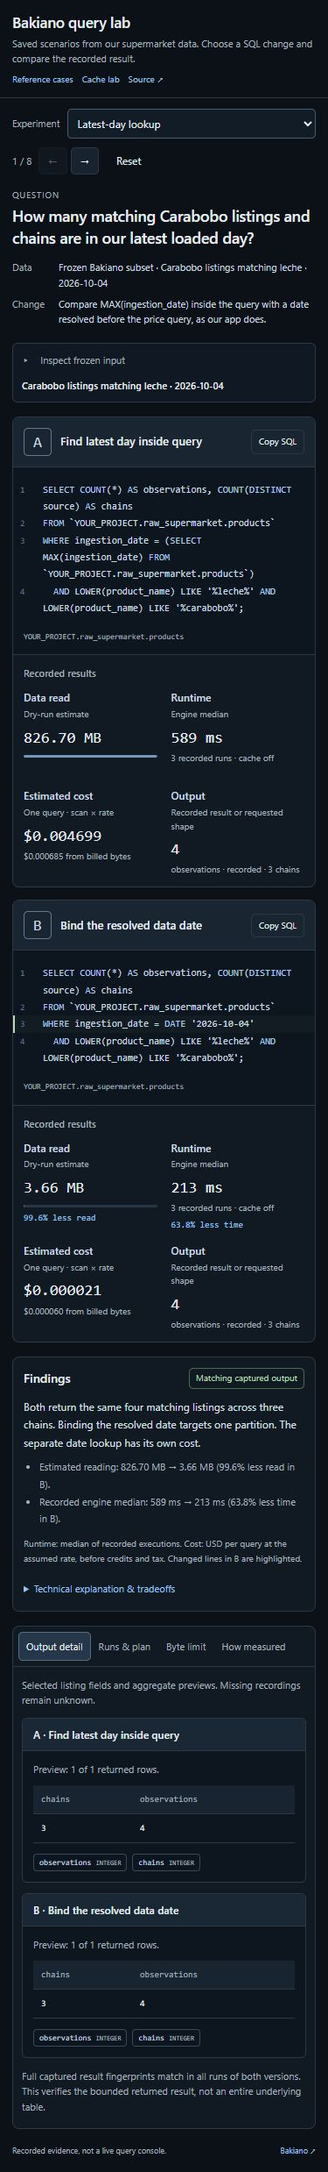
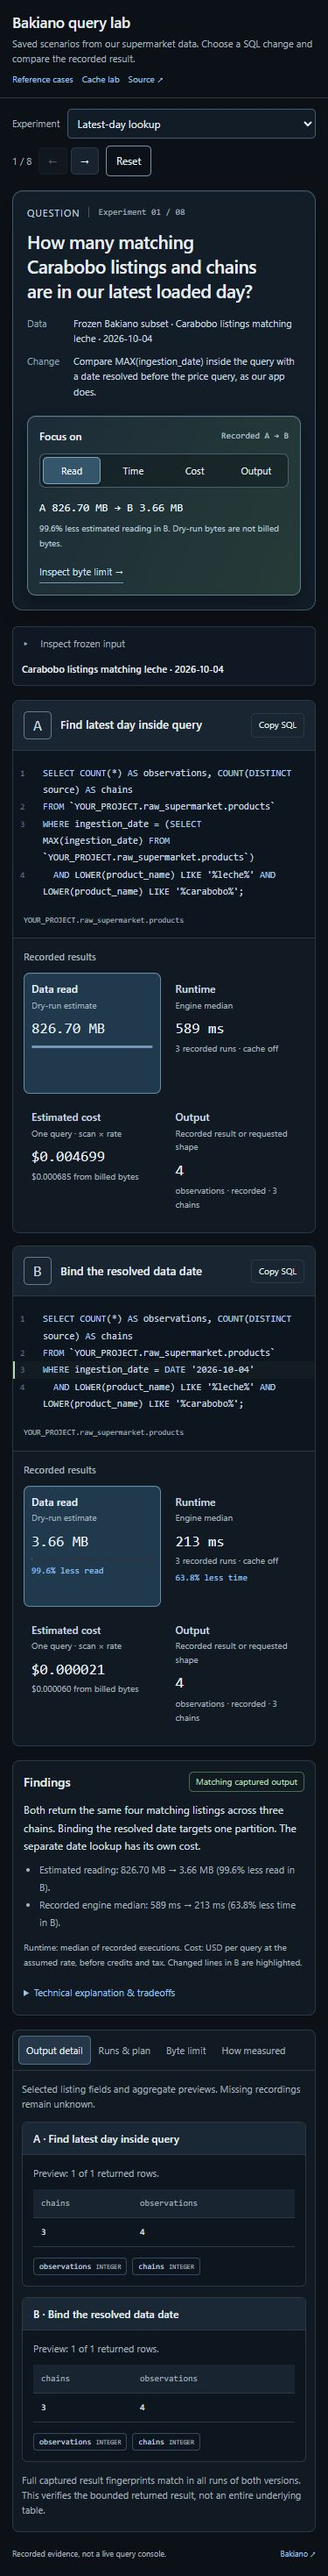
feat(lab): add floating comparison focus and experiment motion (#5)
* feat(lab): add floating comparison focus and experiment motion

* docs(lab): show interactive focus controls and updated previews

diff --git a/demo/lab.js b/demo/lab.js
@@ -2,14 +2,27 @@ const reference=location.pathname==='/reference';
 const {experiments,groups,measurements,checkLimit}=await import(reference?'/examples/query-lab.js':'/examples/market-lab.js');
 import {comparisonFor} from '/examples/query-comparison.js';
 import {pricing} from '/examples/query-metrics.js';
-import {renderComparison,previewHTML,escape,number,bytes,duration} from '/demo/metrics.js';
+import {renderComparison,previewHTML,escape,number,bytes,duration,money} from '/demo/metrics.js';
 const $=id=>document.getElementById(id);
 const views=['output','runs','limits','method'];
 const labels={limit:'Return fewer rows',columns:'Read fewer columns',dates:'Filter an unpartitioned date',time:'Filter time in a view',summary:'Count versus a summary',partitions:'Read fewer partitions',predicate:'Change the date predicate',union:'Keep or remove duplicates',joins:'Group before joining',correlated:'Sum nested arrays',cross:'All pairs versus matching pairs',cte:'Reuse a WITH expression'};
 const params=new URLSearchParams(location.search);
 let experiment=experiments.some(e=>e.id===params.get('case'))?params.get('case'):reference?'summary':experiments[0].id;
-let view=views.includes(params.get('view'))?params.get('view'):'output',runVariant=0,guardSequence=0;
+let view=views.includes(params.get('view'))?params.get('view'):'output',runVariant=0,guardSequence=0,focusMetric='read';
+const focusEvidence={read:{view:'limits',label:'Inspect byte limit'},time:{view:'runs',label:'Inspect execution samples'},cost:{view:'method',label:'Inspect cost assumptions'},output:{view:'output',label:'Inspect output detail'}};
+const reducedMotion=()=>matchMedia('(prefers-reduced-motion: reduce)').matches;
 function model(){const rate=$('price-rate').valueAsNumber;return comparisonFor(experiment,Number.isFinite(rate)&&rate>=0&&rate<=1000?rate:pricing.usdPerTiB,measurements,experiments);}
+function renderFocus(m,validRate=true){
+  const [a,b]=m.versions,differentFields=JSON.stringify(a.query.schema)!==JSON.stringify(b.query.schema);
+  const values={read:'A '+bytes(a.query.bytes)+' → B '+bytes(b.query.bytes),time:m.timeChange===null?'No paired runtime recording':'A '+duration(a.runtime.jobMs)+' → B '+duration(b.runtime.jobMs),cost:validRate?'A '+money(a.estimatedCost)+' → B '+money(b.estimatedCost):'Enter a valid rate',output:m.result==='equal'?'Captured outputs match':m.result==='different'?(differentFields?'Output fields differ':'Captured outputs differ'):'Output comparison unavailable'};
+  const readDelta=m.scanChange===null?'Scan change cannot be compared.':Math.abs(m.scanChange)<.05?'Same dry-run estimate.':Math.abs(m.scanChange).toFixed(1)+'% '+(m.scanChange<0?'less':'more')+' estimated reading in B.';
+  const timeDelta=m.timeChange===null?'At least one query has no execution samples. Runtime remains unknown.':(Math.abs(m.timeChange)<.05?'Same recorded engine median.':Math.abs(m.timeChange).toFixed(1)+'% '+(m.timeChange<0?'less':'more')+' recorded time in B.')+' Three samples; not a speed guarantee.';
+  const notes={read:readDelta+' Dry-run bytes are not billed bytes.',time:timeDelta,cost:validRate?'Scan × assumed rate. Billed-byte costs are separate.':'Set the rate in How measured.',output:m.result==='equal'?'Full bounded result fingerprints match. Inspect the fields and previews.':m.result==='different'?'Different results need a scope check before comparing efficiency.':'Schemas alone cannot verify result equality.'};
+  $('sql-pair').dataset.focus=focusMetric;
+  for(const button of $('focus-controls').querySelectorAll('[data-focus]'))button.setAttribute('aria-pressed',String(button.dataset.focus===focusMetric));
+  $('focus-value').textContent=values[focusMetric];$('focus-note').textContent=notes[focusMetric];
+  $('focus-inspect').textContent=focusEvidence[focusMetric].label+' →';
+}
 function showView(next,focus=false){
   view=next;
   for(const item of views){const active=item===view;$('tab-'+item).setAttribute('aria-selected',String(active));$('tab-'+item).tabIndex=active?0:-1;$('pane-'+item).hidden=!active;}
@@ -31,11 +44,12 @@ function renderRuns(m){
 }
 function render(){
   ++guardSequence;const m=model(),e=m.experiment,index=experiments.indexOf(e);
-  $('case-nav').innerHTML=groups.map(g=>'<section><h3>'+escape(g.label)+'</h3>'+experiments.filter(item=>item.group===g.id).map(item=>'<button type="button" data-case="'+item.id+'" aria-current="'+(item.id===experiment)+'">'+escape(labels[item.id]??item.label)+'</button>').join('')+'</section>').join('');
+  $('case-nav').innerHTML=groups.map(g=>'<section><h3>'+escape(g.label)+'</h3>'+experiments.filter(item=>item.group===g.id).map(item=>'<button type="button" data-case="'+item.id+'" aria-label="'+escape(labels[item.id]??item.label)+'" aria-current="'+(item.id===experiment)+'"><span class="experiment-index" aria-hidden="true">'+String(experiments.indexOf(item)+1).padStart(2,'0')+'</span><span class="experiment-label">'+escape(labels[item.id]??item.label)+'</span><span class="experiment-arrow" aria-hidden="true">↗</span></button>').join('')+'</section>').join('');
   $('case-select').innerHTML=groups.map(g=>'<optgroup label="'+escape(g.label)+'">'+experiments.filter(item=>item.group===g.id).map(item=>'<option value="'+item.id+'" '+(item.id===experiment?'selected':'')+'>'+escape(labels[item.id]??item.label)+'</option>').join('')+'</optgroup>').join('');
   $('case-position').textContent=(index+1)+' / '+experiments.length;$('previous').disabled=index===0;$('next').disabled=index===experiments.length-1;
   $('record-date').textContent='Recorded · '+measurements.capturedAt.slice(0,10);
   $('question').textContent=e.question;$('data-context').textContent=m.context.data;$('change-context').textContent=m.context.change;
+  $('question-position').textContent='Experiment '+String(index+1).padStart(2,'0')+' / '+String(experiments.length).padStart(2,'0');
   $('lab-title').textContent=reference?'BigQuery reference cases':'Bakiano query lab';
   $('lab-description').textContent=reference?'Other public datasets, recorded for reference.':'Saved scenarios from our supermarket data. Choose a SQL change and compare the recorded result.';
   $('sidebar-note').textContent=reference?'Public datasets. Saved measurements. No cloud requests.':'Frozen Bakiano subset. Pre-run queries. No warehouse access needed.';
@@ -44,6 +58,7 @@ function render(){
   const valid=$('price-rate').value!==''&&$('price-rate').validity.valid;
   $('sql-pair').innerHTML=m.versions.map((v,i)=>'<article class="variant-card" aria-labelledby="variant-'+i+'-title"><header class="variant-heading"><div class="variant-label"><span aria-hidden="true">'+('AB'[i])+'</span><h3 id="variant-'+i+'-title" aria-label="'+('AB'[i])+' · '+escape(v.label)+'">'+escape(v.label)+'</h3></div><button type="button" data-copy="'+i+'" aria-label="Copy SQL '+('AB'[i])+'">Copy SQL</button></header><div class="variant-query"><pre class="sql-code" aria-label="SQL '+('AB'[i])+'">'+sqlHTML(v.query.sql,m.versions[0].query.sql,i===1)+'</pre><div class="source-name">'+sources(v.query.sql).map(escape).join('<br>')+'</div></div><div class="variant-results"><h4>Recorded results</h4><dl id="variant-'+i+'-metrics" class="variant-metrics"></dl></div></article>').join('');
   renderComparison(m,valid);
+  renderFocus(m,valid);
   $('lesson').textContent=e.lesson;$('tradeoff').textContent=e.tradeoff;$('docs-link').href=e.docs;
   $('output-pair').innerHTML=m.versions.map((v,i)=>'<article class="output-card"><div class="card-heading"><h4>'+('AB'[i])+' · '+escape(v.label)+'</h4></div><div class="output-content"><p>'+(v.runtime.representative?(v.output.length?'Preview: '+v.output.length+' of '+v.runtime.representative.rowCount+' returned rows.':'Runtime captured for '+v.runtime.representative.rowCount+' returned rows. This recording keeps selected previews only.'):'Schema from a dry run. No data rows captured.')+'</p>'+previewHTML(v.output)+'<div class="field-list">'+v.query.schema.map(f=>'<span class="field">'+escape(f.name)+'<small>'+escape(f.type)+'</small></span>').join('')+'</div></div></article>').join('');
   $('result-proof').textContent=m.result==='equal'?'Full captured result fingerprints match in all runs of both versions. This verifies the bounded returned result, not an entire underlying table.':m.result==='different'?(JSON.stringify(m.versions[0].query.schema)!==JSON.stringify(m.versions[1].query.schema)?'The output fields differ. Previews keep selected fields only; fingerprints cover the complete returned rows, including fields omitted from the preview.':'Result fingerprints differ. Compare the requested scope and aggregate values before treating either approach as an optimization.'):'No complete result comparison was recorded for both versions.';
@@ -55,17 +70,23 @@ function render(){
   $('source-facts').textContent=[...new Set(m.versions.flatMap(v=>sources(v.query.sql)))].map(name=>{const source=measurements.sources?.[name];return name+': '+(source?.partitioning?source.partitioning.type+' partition on '+source.partitioning.field:source?.type==='VIEW'?'view; physical partition layout not exposed':'table; no date partition configuration')+'.';}).join(' ');
   showView(view);
 }
-function selectCase(id){experiment=id;runVariant=0;render();}
-$('case-nav').addEventListener('click',event=>{const b=event.target.closest('[data-case]');if(b)selectCase(b.dataset.case);});
+function selectCase(id){
+  if(id===experiment)return;
+  experiment=id;runVariant=0;render();
+  if(!reducedMotion())for(const element of document.querySelectorAll('.question-content,.focus-console,.variant-card'))element.animate([{opacity:.55,transform:'translateY(6px)'},{opacity:1,transform:'translateY(0)'}],{duration:240,easing:'ease-out'});
+}
+$('case-nav').addEventListener('click',event=>{const b=event.target.closest('[data-case]');if(b){const restore=document.activeElement===b;selectCase(b.dataset.case);if(restore)$('case-nav').querySelector('[aria-current="true"]').focus({preventScroll:true});}});
 $('case-select').addEventListener('change',()=>selectCase($('case-select').value));
 $('previous').addEventListener('click',()=>selectCase(experiments[experiments.findIndex(e=>e.id===experiment)-1].id));
 $('next').addEventListener('click',()=>selectCase(experiments[experiments.findIndex(e=>e.id===experiment)+1].id));
-$('reset').addEventListener('click',()=>{$('price-rate').value=pricing.usdPerTiB;$('price-rate').setCustomValidity('');$('price-rate').setAttribute('aria-invalid','false');$('rate-error').hidden=true;runVariant=0;view='output';render();});
+$('reset').addEventListener('click',()=>{$('price-rate').value=pricing.usdPerTiB;$('price-rate').setCustomValidity('');$('price-rate').setAttribute('aria-invalid','false');$('rate-error').hidden=true;runVariant=0;view='output';focusMetric='read';render();});
+$('focus-controls').addEventListener('click',event=>{const button=event.target.closest('[data-focus]');if(button){focusMetric=button.dataset.focus;renderFocus(model(),$('price-rate').value!==''&&$('price-rate').validity.valid);}});
+$('focus-inspect').addEventListener('click',()=>{showView(focusEvidence[focusMetric].view);$('tab-'+view).focus({preventScroll:true});$('inspector-tabs').scrollIntoView({behavior:reducedMotion()?'instant':'smooth',block:'start'});});
 $('inspector-tabs').addEventListener('click',event=>{const b=event.target.closest('[data-view]');if(b)showView(b.dataset.view);});
 $('inspector-tabs').addEventListener('keydown',event=>{const b=event.target.closest('[data-view]');if(!b)return;let index=views.indexOf(b.dataset.view);if(event.key==='ArrowRight')index=(index+1)%views.length;else if(event.key==='ArrowLeft')index=(index+views.length-1)%views.length;else if(event.key==='Home')index=0;else if(event.key==='End')index=views.length-1;else return;event.preventDefault();showView(views[index],true);});
 $('run-choices').addEventListener('click',event=>{const b=event.target.closest('[data-run]');if(b){runVariant=Number(b.dataset.run);renderRuns(model());}});
 $('sql-pair').addEventListener('click',async event=>{const b=event.target.closest('[data-copy]');if(!b)return;try{await navigator.clipboard.writeText(model().versions[Number(b.dataset.copy)].query.sql);b.textContent='Copied';}catch{b.textContent='Select SQL to copy';}});
-$('price-rate').addEventListener('input',()=>{const rate=$('price-rate').valueAsNumber,valid=Number.isFinite(rate)&&rate>=0&&rate<=1000;$('price-rate').setCustomValidity(valid?'':'Enter a rate from 0 to 1000 USD/TiB.');$('price-rate').setAttribute('aria-invalid',String(!valid));$('rate-error').hidden=valid;renderComparison(model(),valid);});
+$('price-rate').addEventListener('input',()=>{const rate=$('price-rate').valueAsNumber,valid=Number.isFinite(rate)&&rate>=0&&rate<=1000;$('price-rate').setCustomValidity(valid?'':'Enter a rate from 0 to 1000 USD/TiB.');$('price-rate').setAttribute('aria-invalid',String(!valid));$('rate-error').hidden=valid;const m=model();renderComparison(m,valid);renderFocus(m,valid);});
 for(const id of ['limit-version','byte-cap'])$(id).addEventListener('change',()=>{++guardSequence;$('check-cap').disabled=false;$('cap-result').textContent='Check this version against the selected cap.';$('cap-result').className='detail-note';});
 $('check-cap').addEventListener('click',async()=>{const token=++guardSequence;$('check-cap').disabled=true;try{const result=await checkLimit(experiment,Number($('limit-version').value),$('byte-cap').value);if(token!==guardSequence)return;$('cap-result').className='detail-note '+(result.allowed?'allowed':'blocked');$('cap-result').textContent=result.allowed?'Allowed by the guard. Local adapter reached; no BigQuery execution and no observed billing.':'Blocked: '+bytes(result.estimatedBytes)+' estimated, '+bytes(result.limitBytes)+' cap. Execution was never reached.';}catch(error){if(token===guardSequence)$('cap-result').textContent=error.message;}finally{if(token===guardSequence)$('check-cap').disabled=false;}});
 render();

diff --git a/demo/lab.css b/demo/lab.css
@@ -49,3 +49,43 @@
 @media(max-width:650px){.app-header{padding:12px 14px;align-items:flex-start}.app-header nav{gap:10px;font-size:10px}.app-header p{max-width:230px;font-size:11px}h1{font-size:17px}main{padding:12px 14px 0}.case-toolbar{flex-wrap:wrap;gap:8px}.compact-picker{flex-basis:100%}.case-context{margin-top:14px}.case-context h2{font-size:18px}.case-context dl{font-size:11px}.case-context dl>div{grid-template-columns:45px minmax(0,1fr);gap:8px}.paired-panels{grid-template-columns:1fr}.sql-code{font-size:10px;max-height:280px}[role=tabpanel]{padding-left:10px;padding-right:10px}#inspector-tabs{padding:6px;gap:0}#inspector-tabs button{font-size:11px;padding:7px 8px}.method-grid{grid-template-columns:1fr}.method-grid>div:last-child{grid-column:auto}.limit-controls{align-items:stretch}.limit-controls label{flex-basis:100%}.limit-controls select{flex:1}.limit-controls #limit-version{flex-basis:100%}#run-choices{flex-wrap:wrap}footer{font-size:9px}}
 .dataset-panel{margin-top:16px;border:1px solid var(--line);border-radius:6px;padding:10px 14px;background:#101923}.dataset-panel summary{display:flex;gap:12px;align-items:center;flex-wrap:wrap;padding:0;font-size:11px;color:var(--muted)}.dataset-panel summary:before{content:"▸"}.dataset-panel[open] summary:before{content:"▾"}.dataset-panel strong{color:var(--text);font-size:11px;font-weight:500}.dataset-panel .detail-table{margin:10px 0 6px;font-family:system-ui,sans-serif;font-size:11px}.dataset-panel .detail-table td,.dataset-panel .detail-table th{white-space:normal;overflow-wrap:anywhere}.dataset-panel p{color:var(--muted);font-size:10px;line-height:1.7}.dataset-panel .detail-table td:last-child{white-space:nowrap;font-family:var(--mono)}@media(max-width:650px){.app-header{flex-wrap:wrap;gap:8px}.app-header p{max-width:none}.dataset-panel{padding:10px}.dataset-panel .detail-table{font-size:10px}}
 @media(max-width:650px){.dataset-panel .detail-table th:first-child,.dataset-panel .detail-table td:first-child{width:70px;white-space:nowrap;font-size:9px}}
+
+/* The question anchors the experiment; the floating controls inspect saved evidence. */
+.case-context{display:grid;grid-template-columns:minmax(0,1fr) 310px;align-items:center;gap:28px;margin:20px 0 18px;padding:22px 24px;border:1px solid #40576b;border-radius:12px;background:#121d28;box-shadow:0 12px 32px #0003,inset 0 1px 0 #a1c4e81a}
+.question-content{min-width:0}
+.question-caption{display:flex;gap:14px;align-items:center;margin-bottom:10px}
+.question-caption .section-label{margin:0;color:#c3d5e5;font-size:11px;letter-spacing:1px}
+#question-position{font:10px var(--mono);color:var(--muted);border-left:1px solid #40576b;padding-left:14px}
+.case-context h2{font-size:clamp(21px,1.75vw,28px);font-weight:600;line-height:1.35;letter-spacing:-.4px;margin-bottom:18px;max-width:940px;text-wrap:balance}
+.case-context dl{gap:8px}.case-context dt{color:#8fa8bd}
+.focus-console{padding:15px;border:1px solid #5b7e8c;border-radius:10px;background:linear-gradient(115deg,#203a4b,#1c2b38 45%,#273e37);background-size:220% 220%;animation:focus-drift 16s ease-in-out infinite;box-shadow:0 8px 22px #0005,inset 0 1px 0 #cadfed15;min-width:0}
+@keyframes focus-drift{0%,100%{background-position:0% 50%}50%{background-position:100% 50%}}
+.focus-heading{display:flex;justify-content:space-between;align-items:center;gap:8px;font-size:12px;font-weight:550;margin-bottom:11px}
+.focus-heading>span:last-child{font:9px var(--mono);color:#b5c8d5}
+#focus-controls{display:grid;grid-template-columns:repeat(4,minmax(0,1fr));gap:4px;padding:3px;border:1px solid #49616e;border-radius:7px;background:#0c151a7a}
+#focus-controls button{font-size:11px;padding:6px 2px;background:transparent;border-color:transparent;transition:background 160ms,border-color 160ms,color 160ms,transform 160ms}
+#focus-controls button[aria-pressed=true]{background:#34556a;border-color:#7ba5bd;color:#f1f6fb;box-shadow:0 2px 5px #0003}
+#focus-reading{margin:12px 0;min-height:67px}
+#focus-value{display:block;font:500 13px/1.65 var(--mono);overflow-wrap:anywhere;color:#e8f3fb}
+#focus-note{display:block;font-size:10px;line-height:1.7;margin-top:4px;color:#b5c8d5}
+#focus-inspect{border:0;border-bottom:1px solid #709bae;border-radius:0;background:transparent;color:#c6e1f2;font-size:11px;padding:2px 0 4px;text-align:left}
+.case-sidebar button{position:relative;display:grid;grid-template-columns:22px minmax(0,1fr) 12px;align-items:center;gap:8px;margin:6px 0;padding:11px 9px;border:1px solid #263845;border-radius:7px;background:#111b24;transition:border-color 180ms,background 180ms,box-shadow 180ms,transform 180ms}
+.experiment-index{font:10px var(--mono);color:#7f99ad;transition:color 180ms}
+.experiment-label{font-size:12px;line-height:1.5}
+.experiment-arrow{font-size:12px;color:#bfdfed;opacity:0;transform:translate(-3px,3px);transition:opacity 180ms,transform 180ms}
+.case-sidebar button[aria-current=true]{border-color:#6f94b0;background:#253b4d;box-shadow:inset 3px 0 0 #a0c8e5,0 3px 8px #0002}
+.case-sidebar button[aria-current=true] .experiment-index{color:#c4e3f8}
+.case-sidebar button[aria-current=true] .experiment-arrow,.case-sidebar button:focus-visible .experiment-arrow{opacity:1;transform:translate(0,0)}
+.case-sidebar button:focus-visible{background:#203547}
+.variant-card{transition:border-color 200ms,box-shadow 200ms,transform 200ms}
+.variant-metrics{gap:8px}
+.variant-metrics>div{padding:10px;min-height:138px;border:1px solid transparent;border-radius:7px;transition:background 200ms,border-color 200ms,box-shadow 200ms}
+.variant-pair[data-focus=read] [data-metric=read],.variant-pair[data-focus=time] [data-metric=time],.variant-pair[data-focus=cost] [data-metric=cost],.variant-pair[data-focus=output] [data-metric=output]{background:#20394c;border-color:#628ba8;box-shadow:inset 0 1px 0 #c4e3ff12}
+.variant-pair[data-focus=read] [data-metric=read] dt,.variant-pair[data-focus=time] [data-metric=time] dt,.variant-pair[data-focus=cost] [data-metric=cost] dt,.variant-pair[data-focus=output] [data-metric=output] dt{color:#e3f1fc}
+.scan-track rect{transition:width 240ms ease-out}
+#inspector-tabs{scroll-margin-top:20px}
+@media(hover:hover){.case-sidebar button:hover{transform:translateX(3px);background:#1d3040;border-color:#6a8ea8;box-shadow:0 5px 12px #0003}.case-sidebar button:hover .experiment-arrow{opacity:1;transform:translate(0,0)}.case-sidebar button:hover .experiment-index{color:#c4e3f8}.variant-card:hover{transform:translateY(-2px);border-color:#5e7e97;box-shadow:0 8px 20px #0004}#focus-controls button:hover{background:#2c4556;transform:translateY(-1px)}#focus-inspect:hover{color:#fff;border-color:#d7edf8}}
+@media(max-width:1179px){.case-context{gap:20px;padding:20px;grid-template-columns:minmax(0,1fr) 280px}}
+@media(max-width:760px){.case-context{grid-template-columns:1fr;padding:18px;gap:18px}.focus-console{padding:13px}.case-context h2{font-size:22px;margin-bottom:14px}#focus-reading{min-height:0}#focus-value{font-size:13px}.focus-heading>span:last-child{font-size:10px}}
+@media(max-width:650px){.case-context{padding:16px;margin-top:16px}.case-context h2{font-size:21px}.question-caption{gap:10px}#question-position{padding-left:10px}.variant-metrics>div{padding:8px}.variant-metrics strong{font-size:17px}}
+@media(prefers-reduced-motion:reduce){.focus-console{animation:none}.case-sidebar button,.experiment-index,.experiment-arrow,.variant-card,.variant-metrics>div,.scan-track rect,#focus-controls button{transition:none}.case-sidebar button:hover,.variant-card:hover,#focus-controls button:hover{transform:none}}

diff --git a/demo/index.html b/demo/index.html
@@ -13,7 +13,15 @@
     <aside class="case-sidebar"><h2>Experiments</h2><nav id="case-nav" aria-label="Experiments"></nav><p id="sidebar-note" class="sidebar-note">Frozen subset. Pre-run queries.</p></aside>
     <main>
       <div class="case-toolbar"><div class="compact-picker"><label for="case-select">Experiment</label><select id="case-select"></select></div><span id="case-position"></span><div class="step-buttons"><button id="previous" type="button" aria-label="Previous experiment">←</button><button id="next" type="button" aria-label="Next experiment">→</button></div><button id="reset" type="button" class="quiet">Reset</button><span id="record-date" class="record-date"></span></div>
-      <section class="case-context" aria-labelledby="question"><p class="section-label">Question</p><h2 id="question"></h2><dl><div><dt>Data</dt><dd id="data-context"></dd></div><div><dt>Change</dt><dd id="change-context"></dd></div></dl></section>
+      <section class="case-context" aria-labelledby="question">
+        <div class="question-content"><div class="question-caption"><p class="section-label">Question</p><span id="question-position"></span></div><h2 id="question"></h2><dl><div><dt>Data</dt><dd id="data-context"></dd></div><div><dt>Change</dt><dd id="change-context"></dd></div></dl></div>
+        <aside class="focus-console" aria-label="Comparison focus">
+          <div class="focus-heading"><span>Focus on</span><span>Recorded A → B</span></div>
+          <div id="focus-controls" role="group" aria-label="Comparison metric"><button type="button" data-focus="read" aria-controls="sql-pair" aria-pressed="true">Read</button><button type="button" data-focus="time" aria-controls="sql-pair" aria-pressed="false">Time</button><button type="button" data-focus="cost" aria-controls="sql-pair" aria-pressed="false">Cost</button><button type="button" data-focus="output" aria-controls="sql-pair" aria-pressed="false">Output</button></div>
+          <p id="focus-reading" role="status"><strong id="focus-value"></strong><span id="focus-note"></span></p>
+          <button id="focus-inspect" type="button" aria-controls="inspector-tabs">Inspect byte limit →</button>
+        </aside>
+      </section>
       <details id="dataset-panel" class="dataset-panel"><summary><span>Inspect frozen input</span> <strong id="dataset-name"></strong></summary><div id="dataset-rows"></div><p id="dataset-note"></p></details>
       <section aria-label="Queries and recorded results"><div id="sql-pair" class="variant-pair"></div></section>
       <section class="findings" aria-labelledby="findings-title">
@@ -26,7 +34,7 @@
         <div id="pane-output" role="tabpanel" aria-labelledby="tab-output" hidden><div class="pane-intro"><p>Selected listing fields and aggregate previews. Missing recordings remain unknown.</p></div><div id="output-pair" class="paired-panels"></div><p id="result-proof" class="detail-note"></p></div>
         <div id="pane-runs" role="tabpanel" aria-labelledby="tab-runs" hidden><div class="pane-intro"><div id="run-choices" role="group" aria-label="Query to inspect"></div><p>Three sequential samples, result cache disabled. Engine time differs from client time and slot work.</p></div><div id="run-content"></div></div>
         <div id="pane-limits" role="tabpanel" aria-labelledby="tab-limits" hidden><div class="pane-intro"><h3>Check the query before execution</h3><p>The real guard library checks a recorded estimate through a local adapter. This control does not execute BigQuery.</p></div><div class="limit-controls"><label for="limit-version">Query</label><select id="limit-version"></select><label for="byte-cap">Byte cap</label><select id="byte-cap"><option value="100000000">100 MB</option><option value="1000000000">1 GB</option><option value="10000000000">10 GB</option><option value="200000000000">200 GB</option></select><button id="check-cap" type="button">Check limit</button></div><p id="cap-result" role="status" class="detail-note">No query submitted.</p></div>
-        <div id="pane-method" role="tabpanel" aria-labelledby="tab-method" hidden><div class="method-grid"><div><h3>Read and cost</h3><p>Data read is the dry-run scan estimate. Estimated cost is bytes ÷ 2⁴⁰ × USD/TiB. Measured cost uses observed billed bytes; it can differ because of pruning and billing minimums.</p><label class="rate-control" for="price-rate">Assumed USD/TiB <input id="price-rate" type="number" min="0" max="1000" step="0.25" value="6.25"></label><p id="rate-error" role="status" hidden>Enter a rate from 0 to 1000 USD/TiB.</p><p>Default US on-demand list-rate assumption: $6.25/TiB, checked 4 October 2026. Costs exclude free allowance, discounts and tax; estimated scan cost also excludes billing minimums.</p><a href="https://cloud.google.com/bigquery" target="_blank" rel="noreferrer">Google pricing ↗</a></div><div><h3>Time and output</h3><p>Engine time is job end minus start. Client time includes submission, network, polling and result retrieval. Slot-ms is accumulated compute work, not elapsed time or an on-demand charge.</p><p id="capture-limits"></p><p id="record-details"></p><p id="source-facts"></p></div><div><h3>Reproduce</h3><pre>npm install @google-cloud/bigquery
+        <div id="pane-method" role="tabpanel" aria-labelledby="tab-method" hidden><div class="method-grid"><div><h3>Read and cost</h3><p>Data read is the dry-run scan estimate. Estimated cost is bytes ÷ 2⁴⁰ × USD/TiB. Measured cost uses observed billed bytes; it can differ because of pruning and billing minimums.</p><label class="rate-control" for="price-rate">Assumed USD/TiB <input id="price-rate" type="number" min="0" max="1000" step="any" value="6.25"></label><p id="rate-error" role="status" hidden>Enter a rate from 0 to 1000 USD/TiB.</p><p>Default US on-demand list-rate assumption: $6.25/TiB, checked 4 October 2026. Costs exclude free allowance, discounts and tax; estimated scan cost also excludes billing minimums.</p><a href="https://cloud.google.com/bigquery" target="_blank" rel="noreferrer">Google pricing ↗</a></div><div><h3>Time and output</h3><p>Engine time is job end minus start. Client time includes submission, network, polling and result retrieval. Slot-ms is accumulated compute work, not elapsed time or an on-demand charge.</p><p id="capture-limits"></p><p id="record-details"></p><p id="source-facts"></p></div><div><h3>Reproduce</h3><pre>npm install @google-cloud/bigquery
 gcloud auth application-default login
 # Set GOOGLE_CLOUD_PROJECT to your sandbox.
 npm run record:estimates

diff --git a/demo/metrics.js b/demo/metrics.js
@@ -25,7 +25,7 @@ export function renderComparison(model,validRate=true){
     {name:'Runtime',note:'Engine median',cells:versions.map((v,i)=>'<strong>'+duration(v.runtime.jobMs)+'</strong><small>'+(v.runtime.count?v.runtime.count+' recorded runs · cache off':v.runtime.status==='skipped'?'Above the recording cap':'No execution captured')+'</small>'+(i&&model.timeChange!==null?'<small class="delta '+(model.timeChange>0?'more':model.timeChange===0?'flat':'')+'">'+delta(model.timeChange,'time')+'</small>':''))},
     {name:'Output',note:'Recorded result or requested shape',cells:versions.map((v,i)=>{const s=outputSummary(v,experiment.maxRows[i]);return '<div class="output-summary"><strong>'+escape(s.value)+'</strong><small>'+escape(s.note)+'</small></div>';})},
   ];
-  for(const i of [0,1])$('variant-'+i+'-metrics').innerHTML=[rows[0],rows[2],rows[1],rows[3]].map(row=>'<div><dt>'+row.name+'<span>'+row.note+'</span></dt><dd>'+row.cells[i]+'</dd></div>').join('');
+  for(const i of [0,1])$('variant-'+i+'-metrics').innerHTML=[rows[0],rows[2],rows[1],rows[3]].map((row,index)=>'<div data-metric="'+['read','time','cost','output'][index]+'"><dt>'+row.name+'<span>'+row.note+'</span></dt><dd>'+row.cells[i]+'</dd></div>').join('');
   $('meaning').textContent=model.context.meaning;
   const facts=['Estimated reading: '+bytes(versions[0].query.bytes)+' → '+bytes(versions[1].query.bytes)+' ('+delta(model.scanChange,'scan')+' in B).',model.timeChange===null?'Execution was not captured for both queries; their runtime cannot be compared.':'Recorded engine median: '+duration(versions[0].runtime.jobMs)+' → '+duration(versions[1].runtime.jobMs)+' ('+delta(model.timeChange,'time')+' in B).'];
   $('finding-facts').innerHTML=facts.map(fact=>'<li>'+escape(fact)+'</li>').join('');

diff --git a/docs/market-lab.md b/docs/market-lab.md
@@ -49,6 +49,10 @@ Review and curate the external capture before publishing a replacement. Preserve
 
 Choose a scenario in the sidebar or compact selector. The question and SQL change introduce two A/B blocks: each starts with the exact query, then its recorded reading, runtime, cost and output. Changed SQL lines are highlighted in B, and corresponding measurements align across both blocks on wider screens. On narrow screens, A and B stack in order.
 
+The floating **Focus on** panel lets readers choose reading, time, cost or output. The selected metric highlights in both A/B blocks, shows a paired summary, and offers a direct link to the relevant byte limit, execution samples, cost assumptions or output detail. Focus persists across scenario changes; Reset restores reading and the default price assumption. Missing recordings and invalid rates remain explicit. These controls inspect the bundled evidence; they do not run queries or change the captured measurements.
+
+Experiment cards have hover and keyboard-focus feedback. The question panel gives the research question visual priority, with a slowly shifting background on its focus controls. Scenario transitions, hover movement and the background animation are disabled when the system requests reduced motion.
+
 Findings follow both blocks and explain whether the captured results match, what changed in reading and time, and the interpretation limits. Expand the frozen input or technical explanation when needed. Selected output previews, runs/stages, the local byte-cap guard and measurement definitions remain in the evidence tabs below; SQL stays visible above them.
 
 The byte-cap button exercises the actual guard library against saved estimates with a local adapter. It never submits a warehouse job. `/reference` retains other public-dataset experiments; `/guard` retains the simulated cache and authorization sandbox.

diff --git a/README.md b/README.md
@@ -8,6 +8,8 @@ A standalone adaptation of patterns used at [Bakiano](https://bakiano.com), with
 
 The default demo is a **Bakiano query lab**: a frozen subset of real supermarket listings and pre-run SQL scenarios. Two A/B blocks put each query first, followed by its recorded scan estimate, runtime, cost and output. Findings explain the comparison underneath; the frozen input and execution evidence can be expanded for inspection. It needs no warehouse access. The cache and authorization sandbox remains available at `/guard`.
 
+Use the floating **Focus on** controls beside the question to highlight reading, time, cost or output in both cards, then open the corresponding evidence. Numbered experiment cards respond to hover and keyboard focus; a soft animated background and short scenario transitions respect reduced-motion preferences.
+
 ![Two query-first A/B blocks with recorded measurements and findings underneath.](docs/images/scan-lab.jpg)
 
 ## Try it without GCP
